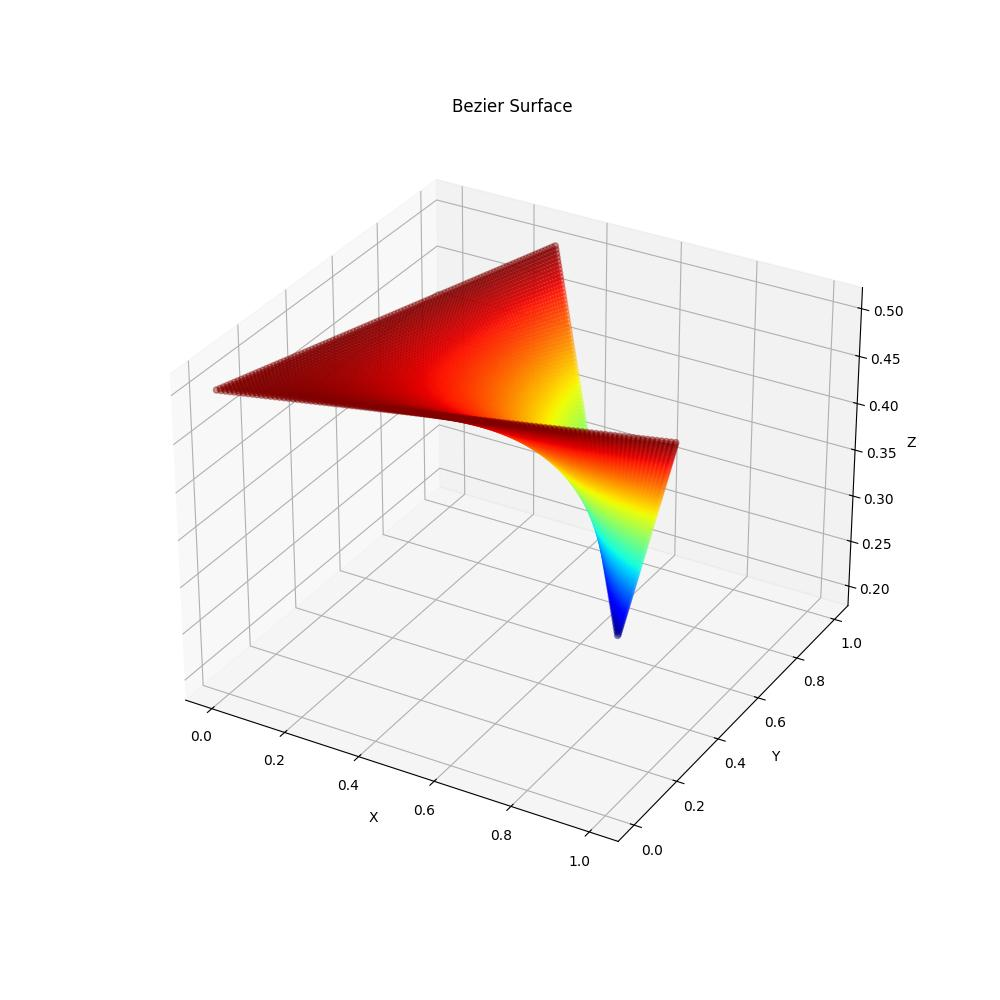
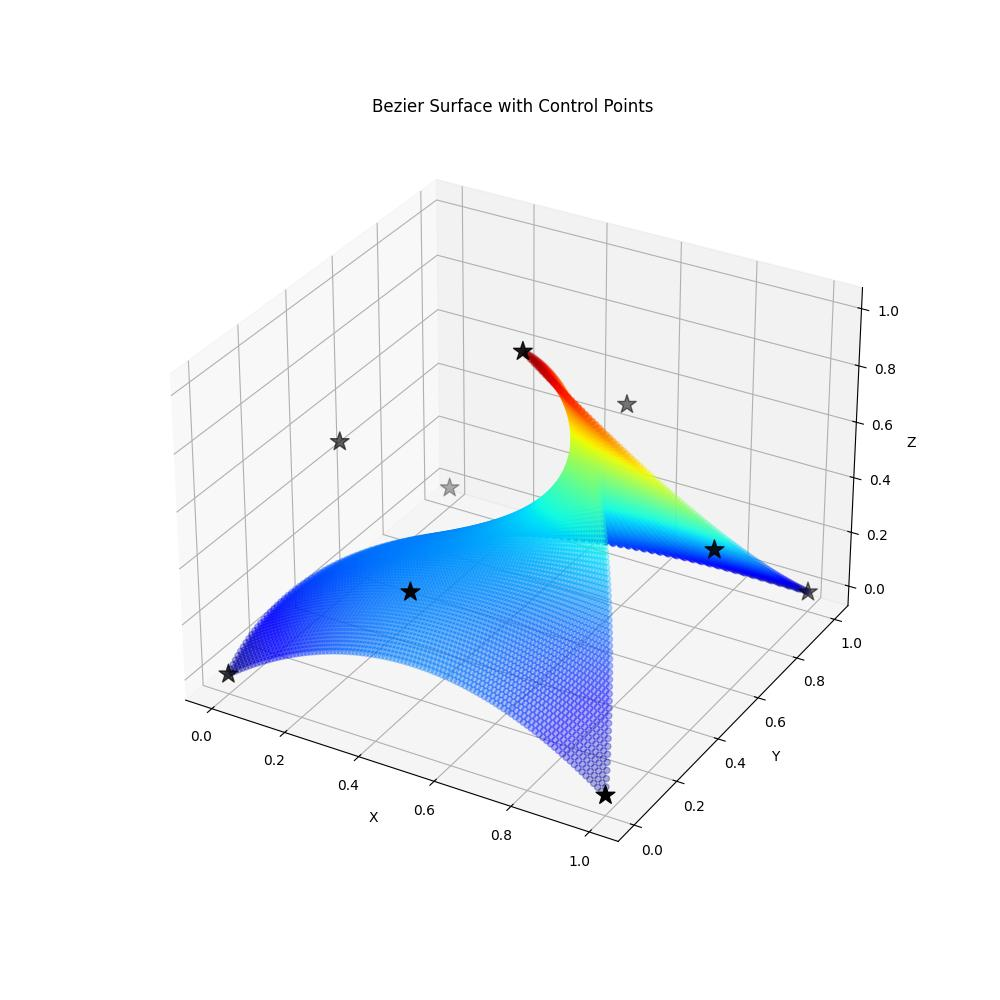
changes

diff --git a/src/bezier.cpp b/src/bezier.cpp
@@ -35,22 +35,22 @@ Point3D::Point3D(float x, float y, float z)
     _z = z;
 }
 
-float Point3D::xCoord()
+float Point3D::xCoord() const
 {
     return _x;
 }
 
-float Point3D::yCoord()
+float Point3D::yCoord() const
 {
     return _y;
 }
 
-float Point3D::zCoord()
+float Point3D::zCoord() const
 {
     return _z;
 }
 
-Point3D& Point3D::operator=(const Point3D& other)
+Point3D& Point3D::operator=(Point3D const & other)
 {
     if (this == &other)
     {
@@ -64,7 +64,7 @@ Point3D& Point3D::operator=(const Point3D& other)
     return *this;
 }
 
-Point3D& Point3D::operator+=(const Point3D& other)
+Point3D& Point3D::operator+=(Point3D const & other)
 {
     this->_x += other._x;
     this->_y += other._y;
@@ -73,7 +73,7 @@ Point3D& Point3D::operator+=(const Point3D& other)
     return *this;
 }
 
-Point3D& Point3D::operator-=(const Point3D& other)
+Point3D& Point3D::operator-=(Point3D const & other)
 {
     this->_x += other._x;
     this->_y += other._y;
@@ -91,7 +91,7 @@ Point3D& Point3D::operator*=(float scalar)
     return *this;
 }
 
-Point3D Point3D::operator+(const Point3D& rhs)
+Point3D Point3D::operator+(Point3D const & rhs)
 {
     Point3D point = *this;
 
@@ -102,7 +102,7 @@ Point3D Point3D::operator+(const Point3D& rhs)
     return point;
 }
 
-Point3D Point3D::operator-(const Point3D& rhs)
+Point3D Point3D::operator-(Point3D const & rhs)
 {
     Point3D point = *this;
 
@@ -128,6 +128,11 @@ Surface::Surface(int n, int m)
     _m = m;
 
     _control_points.reserve((_n+1)*(_m+1));
+}
+
+std::vector<Point3D> const & Surface::getControlPoints() const
+{
+    return _control_points;
 }
 
 void Surface::insertControlPoint(Point3D point)
@@ -157,7 +162,7 @@ void Surface::removeControlPoint(int i, int j)
 
 Point3D Surface::generatePoint(float u, float v)
 {
-    Point3D point = {0.0, 0.0, 0.0};
+    Point3D point;
 
     for (size_t i=0; i<=_n; i++)
     {
@@ -206,13 +211,29 @@ int main()
 
 
     /* DIP */
-    Surface surface(1, 1);
-    surface.insertControlPoint(Point3D(0, 0, .5));
-    surface.insertControlPoint(Point3D(1, .3, .5));
-    surface.insertControlPoint(Point3D(.3, 1, .5));
-    surface.insertControlPoint(Point3D(.7, .6, .2));
-    
+    // Surface surface(1, 1);
+    // surface.insertControlPoint(Point3D(0, 0, .5));
+    // surface.insertControlPoint(Point3D(1, .3, .5));
+    // surface.insertControlPoint(Point3D(.3, 1, .5));
+    // surface.insertControlPoint(Point3D(.7, .6, .2));
 
+
+    /* Umbrella */
+    Surface surface(2, 2);
+    surface.insertControlPoint(Point3D(0, 0, 0));
+    surface.insertControlPoint(Point3D(.5, 0, .5));
+    surface.insertControlPoint(Point3D(1, 0, 0));
+    surface.insertControlPoint(Point3D(0, .5, .5));
+    surface.insertControlPoint(Point3D(0, 1, 0));
+    surface.insertControlPoint(Point3D(.5, 1, .5));
+    surface.insertControlPoint(Point3D(1, 1, 0));
+    surface.insertControlPoint(Point3D(1, .5, .5));
+    surface.insertControlPoint(Point3D(.5, .5, 1));
+
+
+
+    
+    // Generate the points
     std::vector<Point3D> points;
     for (int i=0; i<=100; i++)
     {
@@ -227,7 +248,10 @@ int main()
         }
     }
 
-    // Store points into a txt file
+    // Get the control points
+    std::vector<Point3D> control_points = surface.getControlPoints();
+
+    // Store points into a text file
     std::fstream file;
     file.open("../scripts/points.txt", std::fstream::in | std::fstream::out | std::fstream::trunc);
     if (file.is_open())
@@ -235,6 +259,13 @@ int main()
         for (auto& point : points)
         {
             file << point.xCoord() << ", " << point.yCoord() << ", " << point.zCoord() << std::endl;
+        }
+
+        file << "ControlPoints" << std::endl;
+
+        for (auto& control_point : control_points)
+        {
+            file << control_point.xCoord() << ", " << control_point.yCoord() << ", " << control_point.zCoord() << std::endl;
         }
     }
     else

diff --git a/scripts/surface_plotter.py b/scripts/surface_plotter.py
@@ -1,8 +1,6 @@
 
 import matplotlib.pyplot as plt
 from mpl_toolkits.mplot3d import axes3d
-import numpy as np
-import re
 
 
 
@@ -15,22 +13,50 @@ x_coords = []
 y_coords = []
 z_coords = []
 
+control_points = []
+control_x_coords = []
+control_y_coords = []
+control_z_coords = []
+
 
 with open("points.txt", "r") as file:
+    control_points_flag = False
+
     for line in file:
-        point = [item.strip() for item in line.split(",")]
-        points.append(point)
+        line = line.strip()
+        if line != "ControlPoints" and not control_points_flag:
+            point = [item.strip() for item in line.split(",")]
+            points.append(point)
+        elif control_points_flag:
+            control_point = [item.strip() for item in line.split(",")]
+            control_points.append(control_point)
+        elif not control_points_flag:
+            control_points_flag = True
+            continue
+            
     
 for point in points:
     x_coords.append(float(point[0]))
     y_coords.append(float(point[1]))
     z_coords.append(float(point[2]))
 
+for control_point in control_points:
+    control_x_coords.append(float(control_point[0]))
+    control_y_coords.append(float(control_point[1]))
+    control_z_coords.append(float(control_point[2]))
 
-ax.scatter(x_coords, y_coords, z_coords, alpha=.4, c=z_coords, cmap="jet")
-plt.title("Bezier Surface")
+
+# Plot Bezier Surface
+ax.scatter(x_coords, y_coords, z_coords, c=z_coords, cmap="jet", alpha=.3)
+
+# Plot Control Points
+ax.scatter(control_x_coords, control_y_coords, control_z_coords, c="black", marker="*", s=200)
+# ax.plot(control_x_coords, control_y_coords, control_z_coords, c="red")
+
+plt.title("Bezier Surface with Control Points")
 ax.set_xlabel("X")
 ax.set_ylabel("Y")
 ax.set_zlabel("Z")
 
+# plt.show()
 plt.savefig("surface_plot.jpg")

diff --git a/src/bezier.h b/src/bezier.h
@@ -21,16 +21,16 @@ class Point3D
         Point3D(float x, float y, float z);
         ~Point3D() {};
 
-        float xCoord();
-        float yCoord();
-        float zCoord();
+        float xCoord() const;
+        float yCoord() const;
+        float zCoord() const;
 
-        Point3D& operator=(const Point3D& other);
-        Point3D& operator+=(const Point3D& other);
-        Point3D& operator-=(const Point3D& other);
+        Point3D& operator=(Point3D const & other);
+        Point3D& operator+=(Point3D const & other);
+        Point3D& operator-=(Point3D const & other);
         Point3D& operator*=(float scalar);
-        Point3D operator+(const Point3D& rhs);
-        Point3D operator-(const Point3D& rhs);
+        Point3D operator+(Point3D const & rhs);
+        Point3D operator-(Point3D const & rhs);
         
     private:
         float _x;
@@ -46,6 +46,8 @@ class Surface
         Surface(int n, int m);
         ~Surface() {};
 
+        std::vector<Point3D> const & getControlPoints() const;
+        
         void insertControlPoint(Point3D point);
         void removeControlPoint(int i, int j);
         Point3D generatePoint(float u, float v);
